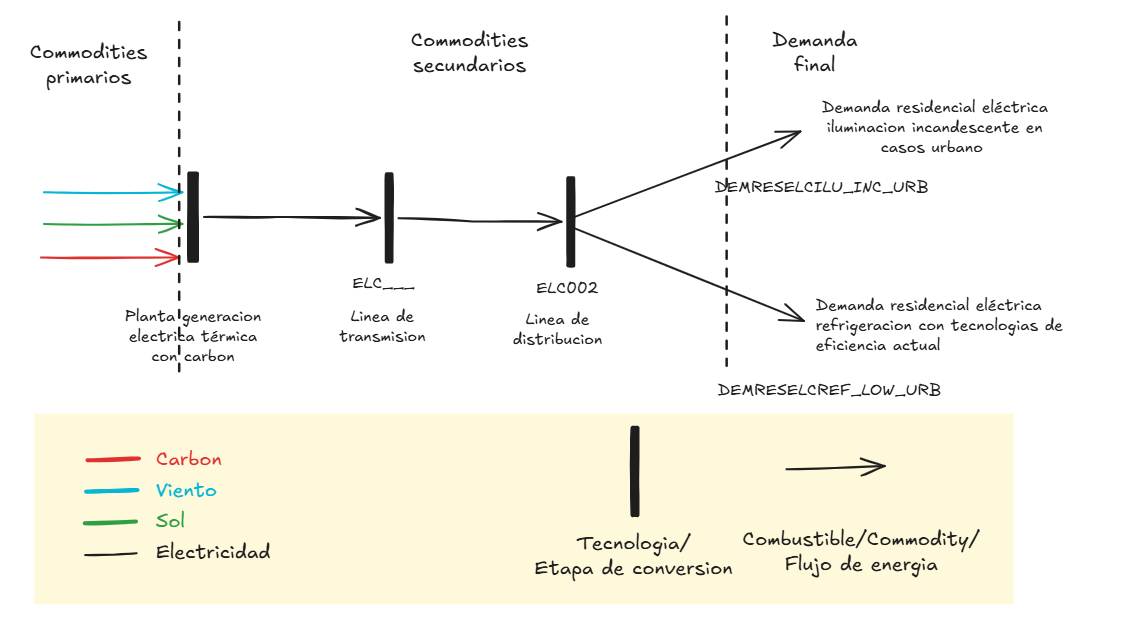
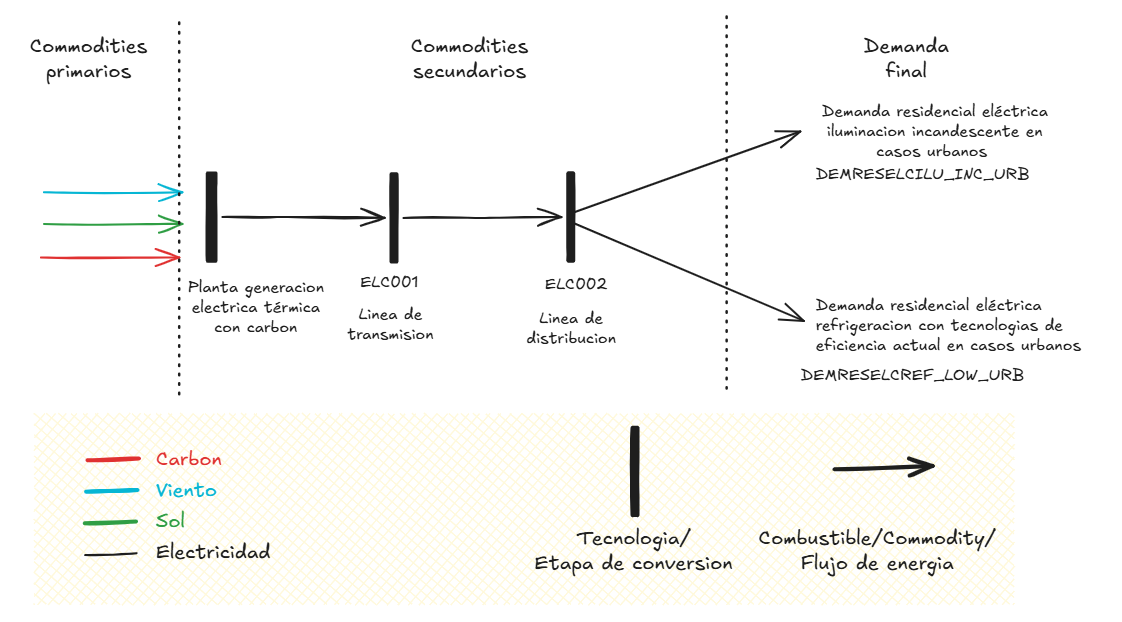
wip - add new screenshots and modify some sections

diff --git a/docs/contributing.md b/docs/contributing.md
@@ -25,22 +25,24 @@ npm run lint        # eslint
 !!! tip "Antes de proponer un cambio"
     Corre `pytest` en el backend y `npm run typecheck` más `npm run lint` en el frontend antes de abrir un cambio. Son las mismas verificaciones que se esperan en revisión.
 
-## Editar y previsualizar este sitio de documentación
+## Flujo de contribución (ramas y Pull Requests)
 
-Este sitio de documentación es un proyecto **independiente** del repositorio de la aplicación (vive en su propio directorio, separado del código de OSeMOSYS Colombia). Está construido con [MkDocs](https://www.mkdocs.org/) y el tema [Material for MkDocs](https://squidfunk.github.io/mkdocs-material/), y también está dockerizado para facilitar su edición.
+Los cambios a la aplicación se proponen mediante ramas de feature y Pull Requests, no con push directo a `main` ni a `dev`.
 
-Desde la raíz de este proyecto de documentación.
+1. Crea una rama nueva a partir de `main`, con un nombre que describa el cambio, por ejemplo `feature/nombre-del-cambio` o `fix/nombre-del-bug`.
+2. Haz los cambios y corre las pruebas correspondientes, `pytest` en el backend y `npm run typecheck` más `npm run lint` en el frontend, como se describió arriba.
+3. Sube la rama y abre un Pull Request contra la rama `dev` del repositorio [UPME-SubDemanda/Osemosys_UPME](https://github.com/UPME-SubDemanda/Osemosys_UPME).
+4. Describe el cambio y su motivación en el PR, y espera la revisión y el resultado de CI antes de fusionar.
 
-```bash
-docker compose up
+```mermaid
+gitGraph
+    commit id: "main estable"
+    branch dev
+    checkout main
+    branch feature/nombre-del-cambio
+    commit id: "cambio A"
+    commit id: "cambio B"
+    checkout dev
+    merge feature/nombre-del-cambio id: "Pull Request"
+    checkout main
 ```
-
-Esto levanta un contenedor que ejecuta `mkdocs serve` internamente y sirve el sitio con recarga en caliente. Los cambios en los archivos `.md` se reflejan automáticamente en el navegador sin reiniciar el contenedor. El sitio queda disponible en [http://localhost:8001](http://localhost:8001).
-
-### Estructura del sitio
-
-El contenido vive en `docs/` (Markdown), organizado en las secciones que define la navegación (`nav`) de `mkdocs.yml` (Getting Started, Guía de Usuario, Arquitectura y Referencia, Operación, Ejemplos). Las extensiones de Markdown habilitadas incluyen admonitions (`!!! tip`, `!!! note`), pestañas, bloques de código con resaltado y tarjetas en grilla (`grid cards`) para páginas tipo landing como la portada. Al agregar una página nueva, hay que registrarla en la sección `nav` de `mkdocs.yml` para que aparezca en el menú de navegación.
-
-## Siguientes pasos
-
-Para continuar, revisa [Instalación](getting-started/installation.md), que tiene el detalle completo de puesta en marcha de la aplicación, y [Arquitectura](architecture/overview.md), que da el contexto técnico completo antes de contribuir cambios de fondo.

diff --git a/docs/getting-started/plataforma.md b/docs/getting-started/plataforma.md
@@ -1,0 +1,17 @@
+![Componentes de la plataforma OSeMOSYS Colombia](../assets/screenshots/plataforma/componentes-plataforma.png)
+
+A alto nivel, OSeMOSYS Colombia es el modelo energético en el centro, rodeado de piezas que lo hacen funcionar en equipo incluyendo gestión de pipelines de simulación, un motor de optimización , contenedores para empaquetar y desplegar todo, control de versiones , gestión asíncrona de tareas, gestión de caché y una base de datos relacional.
+
+OSeMOSYS Colombia no es solo "el modelo OSeMOSYS corriendo en algún lado". Es una plataforma que integra ese modelo con un conjunto de herramientas y componentes open source pensados para que el trabajo de modelado escale a un equipo de analistas, no a una sola persona trabajando en su computador.
+
+Un uso típico de OSeMOSYS por sí solo suele verse así. Un analista trabaja localmente con hojas de cálculo o archivos CSV, usa herramientas de línea de comandos (como `otoole`) para preparar los datos, y resuelve el modelo con un solver como GLPK o CBC. Funciona bien para una persona y un caso puntual, pero se vuelve difícil de sostener cuando varios analistas necesitan colaborar, versionar escenarios, correr simulaciones al mismo tiempo, o explorar resultados sin escribir código.
+
+Sobre esa base metodológica, la plataforma agrega varias piezas open source que resuelven justamente esos problemas de escala y colaboración.
+
+Una **base de datos compartida** (PostgreSQL) centraliza los escenarios y catálogos del equipo en un solo lugar, en vez de dejarlos dispersos en archivos locales de cada analista. Una **cola de ejecución** (Celery + Redis) permite que varios analistas lancen simulaciones a la vez, con límites de concurrencia y sin que una corrida pesada bloquee a las demás. Una **interfaz web** (React) traduce la exploración y comparación de resultados en gráficas interactivas, sin necesidad de programar. Y una capa de **solvers intercambiables** (HiGHS de código abierto por defecto, con Gurobi, CPLEX o Mosek como opciones comerciales) se conecta al modelo a través de Pyomo, de forma que elegir solver es una decisión de configuración, no una reescritura del modelo.
+
+Todo esto se empaqueta con Docker, así que el stack completo (base de datos, cola, API, frontend, worker de simulación) se levanta igual en un computador local que en un servidor de producción ignorando el sistema operativo.
+
+## Siguientes pasos
+
+Sigue con [¿Qué es OSeMOSYS?](que-es-osemosys.md) para entender el modelo, y luego con [Instalación](installation.md) para levantar el stack completo.

diff --git a/docs/getting-started/que-es-osemosys.md b/docs/getting-started/que-es-osemosys.md
@@ -1,10 +1,11 @@
-# ¿Qué es OSeMOSYS Colombia?
+# ¿Qué es OSeMOSYS?
 
-Antes de instalar nada, vale la pena entender qué hace esta aplicación y de dónde viene el modelo que corre por debajo. Esta página es la introducción conceptual, la primera parada antes de [Instalación](installation.md).
+La página anterior explicó [qué es esta plataforma](plataforma.md). Esta explica el modelo que corre por debajo, OSeMOSYS, la metodología de optimización energética en la que se apoya toda la aplicación.
 
-OSeMOSYS Colombia es una plataforma web de planeación energética de largo plazo. Toma un modelo del sistema energético colombiano construido sobre OSeMOSYS (un framework de optimización energética open source) y lo pone al alcance de analistas y planificadores a través de una interfaz web, sin que tengan que escribir código ni operar un solver directamente.
+OSeMOSYS (Open Source Energy Modelling System) es un framework abierto de optimización energética, pensado para construir modelos de largo plazo de sistemas energéticos completos. Nació como una alternativa de código abierto a otras herramientas de planeación energética y hoy lo mantiene una comunidad internacional de practicantes e instituciones. La documentación oficial vive en [osemosys.readthedocs.io](https://osemosys.readthedocs.io/) y el código fuente en [github.com/OSeMOSYS](https://github.com/OSeMOSYS).
 
-Con ella puedes crear escenarios (distintos supuestos de demanda, tecnología, costos y política), lanzar simulaciones que resuelven un problema de optimización, y explorar los resultados con gráficas interactivas.
+!!! note "Un modelo aplicado, no el framework genérico"
+    Esta página explica los conceptos de OSeMOSYS tal como se usan en el modelo colombiano de esta plataforma. Para la formulación matemática canónica y la documentación exhaustiva del framework, la referencia es la documentación oficial enlazada arriba.
 
 Todo modelo de OSeMOSYS, incluido este, representa el sistema energético como una red de **commodities** (combustibles, electricidad, cualquier flujo de energía) y **tecnologías** (procesos que transforman un commodity en otro). A esta red se le llama el **Sistema de Referencia Energético**, o RES por sus siglas en inglés (Reference Energy System).
 
@@ -24,4 +25,8 @@ El ejemplo del diagrama sigue la ruta más común del sistema eléctrico colombi
 
 ## Por qué importa entender esto antes de desplegar o correr simulaciones?
 
-Toda la interfaz de la aplicación (escenarios, catálogos, resultados) gira alrededor de estos mismos conceptos, commodities y tecnologías. Cuando más adelante veas nombres como `PWRNGS_CC` (una central de ciclo combinado a gas) o `DEMTRAELCLDV` (demanda de transporte, vehículos livianos eléctricos), ya sabrás que son piezas de este mismo tipo de red, algo que produce o consume un commodity, en algún punto de la cadena entre el recurso primario y el usuario final.
+Toda la interfaz de la aplicación (escenarios, catálogos, resultados) gira alrededor de estos mismos conceptos, commodities y tecnologías. Nombres como `PWRNGS_CC` (una central de ciclo combinado a gas) o `DEMTRAELCLDV` (demanda de transporte, vehículos livianos eléctricos) son piezas de ese mismo tipo de red, algo que produce o consume un commodity en algún punto de la cadena entre el recurso primario y el usuario final.
+
+## Siguientes pasos
+
+Sigue con [Instalación](installation.md) para levantar el stack, y luego con [Primera simulación](first-simulation.md) para ver el flujo completo en la interfaz.

diff --git a/docs/getting-started/first-simulation.md b/docs/getting-started/first-simulation.md
@@ -65,10 +65,7 @@ sequenceDiagram
 
 Abre el frontend en tu navegador ([http://localhost:8080](http://localhost:8080) si usas el stack Docker por defecto) e inicia sesión con el usuario `seed` y la contraseña `seed123`.
 
-!!! example "📸 Captura pendiente"
-    Pantalla de inicio de sesión.
-
-    <!-- ![Inicio de sesión](../assets/screenshots/first-simulation/01-login.png) -->
+![Pantalla de inicio de sesión](../assets/screenshots/first-simulation/01-login.png)
 
 ## 2. Elegir o crear un escenario
 